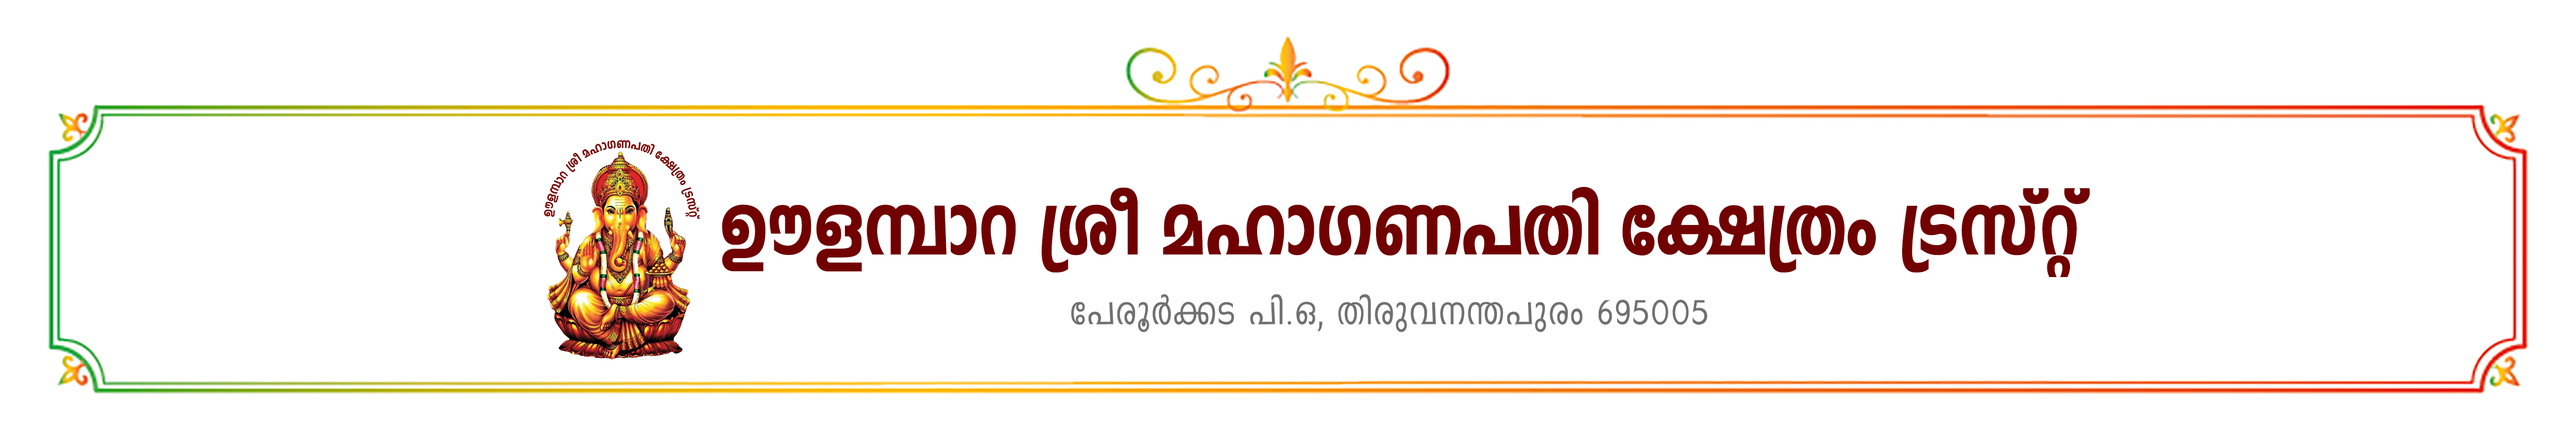
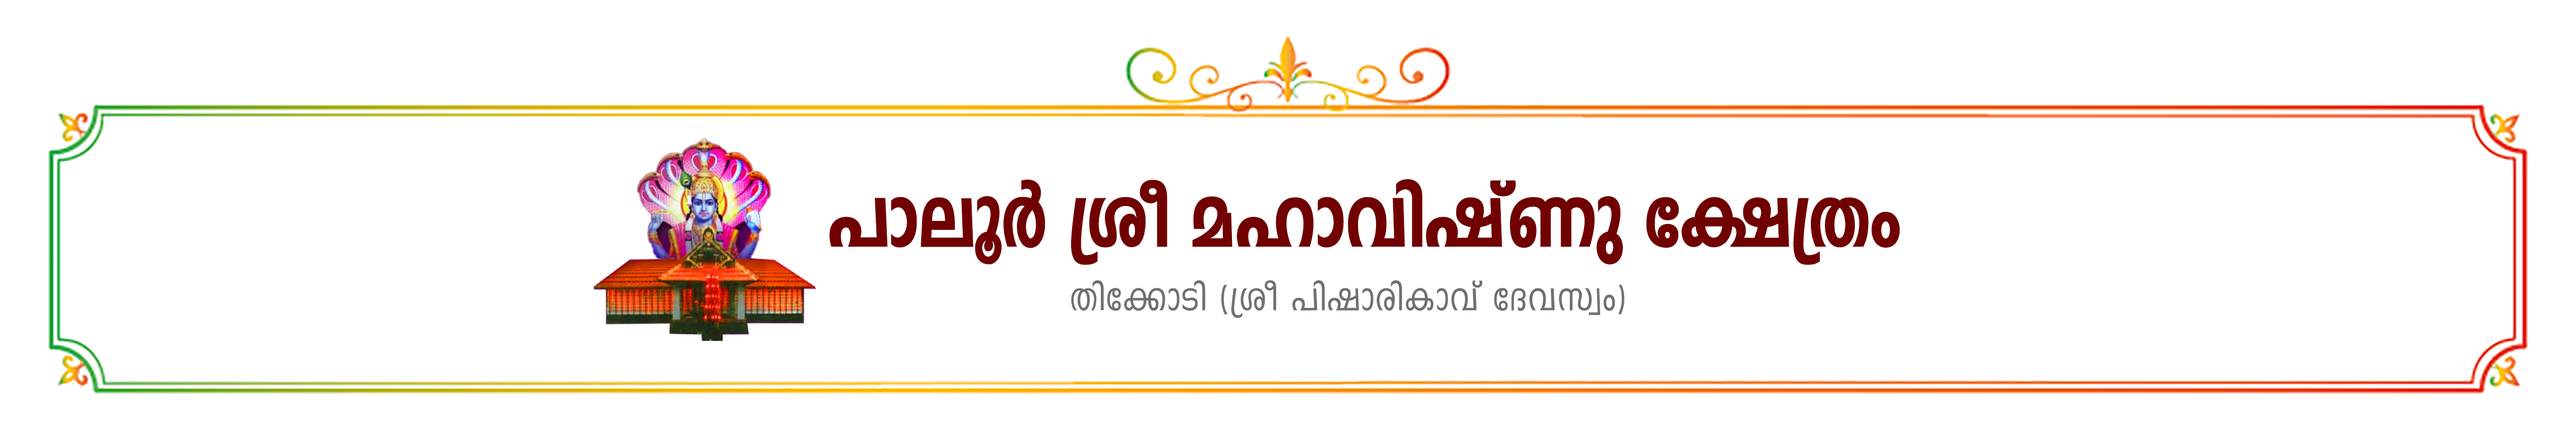
pisharikkavu temple recipt diamension

Changed region(s): [[0.1872, 0.3121, 0.8112, 0.8427], [0.4056, 0.6555, 0.6552, 0.7803]]

diff --git a/src/app/nadavaravu/nadavaravu.component.html b/src/app/nadavaravu/nadavaravu.component.html
@@ -216,7 +216,10 @@
               </select>
             </td>
             <td>
-              <button class="btn btn-primary" (click)="onSubmit()">Save</button><br>
+              <button class="btn btn-primary" (click)="onSubmit()"
+              [disabled]="role=='admin' || role=='audit' || role=='super'"
+
+              >Save</button><br>
 
               <button (click)="resetForm()" class="btn btn-danger mt-2">
                 Cancel
@@ -296,25 +299,42 @@
 <!-- oolanbarra start nadavaravu recipt and duplicte -->
 
 <div id="receipt" style="width: 6in; height: 4in; display: none; position: relative; font-size: 12px; font-family: Arial, sans-serif;">
-  <div style="position: absolute; left: 5cm; top: 3.6cm;">{{ itemName }}</div>
-  <div style="position: absolute; left: 11cm; top: 3.2cm;">{{ todayDate | date: 'dd-MM-yyyy' }}</div>
-  <div style="position: absolute; left: 11cm; top: 3.6cm;">{{ nadavaravForm.get('BillNo')?.value }}</div>
-  <div style="position: absolute; left: 2cm; top: 5.5cm;">{{ nadavaravForm.get('Name')?.value }}<p>{{nadavaravForm.get('Address')?.value }}</p></div>
-  <div style="position: absolute; left: 8cm;top: 5.5cm;font-family:Manjari;font-size:7pt;">{{ getStarNameById(nadavaravForm.get('Star')?.value) }}</div>
-  <div style="position: absolute; left: 10cm; top: 5.5cm;">{{ nadavaravForm.get('Qty')?.value }}</div>
-  <div style="position: absolute; left: 12.5cm; top: 5.5cm;">{{ nadavaravForm.get('ReceiptAmount')?.value  }}</div>
-  <div style="position: absolute;  left: 11.5cm; top: 7.5cm;">{{ nadavaravForm.get('ReceiptAmount')?.value  }}</div>
+      <div style="position: absolute; left:3cm; top: 3cm; font-size:9pt; white-space: pre-wrap;" >പാലൂർ ശ്രീ മഹാവിഷ്ണു ക്ഷേത്രം ,തിക്കോടി </div>
+
+  <div style="position: absolute; left: 2cm; top: 4%;">{{ itemName }}</div>
+  <div style="position: absolute; left: 10.5cm; top: 3.5cm;">{{ todayDate | date: 'dd-MM-yyyy' }}</div>
+  <div style="position: absolute; left: 10.5cm; top: 4cm;">{{ nadavaravForm.get('BillNo')?.value }}</div>
+  <div style="position: absolute; left: 1cm; top: 5.5cm;">{{ nadavaravForm.get('Name')?.value }}
+    <p>{{nadavaravForm.get('Address')?.value }}</p>
+   <p style="font-family:Manjari;margin-bottom: 0;font-family:Manjari;margin-top: 0px;padding-top: 0px;padding-bottom: 0px;">{{"Weight" | translate}}:{{nadavaravForm.get('weight')?.value }}</p>
+  <p style="font-family:Manjari;margin-bottom: 0;font-family:Manjari;margin-top: 0px;padding-top: 0px;padding-bottom: 0px;">{{"unit" | translate}}:{{nadavaravForm.get('unit')?.value }}</p>
+
+  </div>
+  <div style="position: absolute; left: 6.8cm;top: 5.5cm;font-family:Manjari;font-size:7pt;">{{ getStarNameById(nadavaravForm.get('Star')?.value) }}</div>
+  <div style="position: absolute; left: 9.5cm; top: 5.5cm;">{{ nadavaravForm.get('Qty')?.value }}</div>
+  <div style="position: absolute; left: 11.5cm; top: 5.5cm;">{{ nadavaravForm.get('ReceiptAmount')?.value  }}</div>
+  <div style="position: absolute;  left: 10.5cm; top: 8.6cm;">{{ nadavaravForm.get('ReceiptAmount')?.value  }}</div>
+<div style="position: absolute; left: 1.5cm; top: 8.4cm;font-size:8pt">User:{{this.name}}( {{getTransactionType(nadavaravForm.get('TrnsMode')?.value)}}),(CNTR:{{this.CounterId}})</div>
 </div>
 
 <div  id="duplicateRecipt" style="width: 6in; height: 4in; display: none; position: relative; font-size: 12px; font-family: Arial, sans-serif;">
-  <div style="position: absolute; left: 5cm; top: 3.6cm;">{{getItemById(dupliacteBillData?.NM_Id) }}</div> 
- <div style="position: absolute; left: 11cm; top: 3.2cm;">{{ dupliacteBillData?.Billdate | date : "dd-MM-YYYY" }}</div>
-  <div style="position: absolute; left: 11cm; top: 3.6cm;">{{ dupliacteBillData?.BillNo }}</div>
-  <div style="position: absolute; left: 2cm; top: 5.5cm;">{{ dupliacteBillData?.Name }}</div>
-  <div style="position: absolute; left: 8cm; top: 5.5cm;">{{getStarNameById(dupliacteBillData?.Star) }}</div>
-  <div style="position: absolute; left: 10cm; top: 5.5cm;">{{dupliacteBillData?.Qty }}</div>
-  <div style="position: absolute; left: 12.5cm; top: 5.5cm;">{{ dupliacteBillData?.Receipt_Amt  }}</div>
-  <div style="position: absolute; left: 11.5cm; top: 7.5cm;">{{ dupliacteBillData?.Receipt_Amt  }}</div>
+        <div style="position: absolute; left:3cm; top: 3cm; font-size:9pt; white-space: pre-wrap;" >പാലൂർ ശ്രീ മഹാവിഷ്ണു ക്ഷേത്രം ,തിക്കോടി </div>
+
+  <div style="position: absolute; left: 2cm; top: 4cm;">{{getItemById(dupliacteBillData?.NM_Id) }}</div> 
+ <div style="position: absolute; left: 10.5cm; top: 3.5cm;">{{ dupliacteBillData?.Billdate | date : "dd-MM-YYYY" }}</div>
+  <div style="position: absolute; left: 10.5cm; top: 4cm;">{{ dupliacteBillData?.BillNo }}</div>
+  <div style="position: absolute; left: 1cm; top: 5.5cm;">{{ dupliacteBillData?.Name }}
+    <p>{{dupliacteBillData?.Address}}</p>
+      <p style="font-family:Manjari;margin-bottom: 0;font-family:Manjari;margin-top: 0px;padding-top: 0px;padding-bottom: 0px;">{{"Weight" | translate}}:{{dupliacteBillData?.weight }}</p>
+  <p style="font-family:Manjari;margin-bottom: 0;font-family:Manjari;margin-top: 0px;padding-top: 0px;padding-bottom: 0px;">{{"unit" | translate}}:{{dupliacteBillData?.unit }}</p> 
+
+  </div>
+  <div style="position: absolute; left: 6.8cm; top: 5.5cm;">{{getStarNameById(dupliacteBillData?.Star) }}</div>
+  <div style="position: absolute; left: 9.5cm; top: 5.5cm;">{{dupliacteBillData?.Qty }}</div>
+  <div style="position: absolute; left: 11.5cm; top: 5.5cm;">{{ dupliacteBillData?.Receipt_Amt  }}</div>
+  <div style="position: absolute; left: 10.5cm; top: 8.6cm;">{{ dupliacteBillData?.Receipt_Amt  }}</div>
+<div style="position: absolute; left: 1.5cm; top: 8.4cm;font-size:8pt">User:{{this.name}}( {{getTransactionType(nadavaravForm.get('TrnsMode')?.value)}}),(CNTR:{{this.CounterId}})</div>
+
 </div>
 <!-- end of ollanbara -->
 

diff --git a/src/app/features/Billing/fixedbottom/fixedbottom.component.ts b/src/app/features/Billing/fixedbottom/fixedbottom.component.ts
@@ -341,24 +341,24 @@ console.log(data,"dot metrix checkingkkkkkk");
        <div class="receipt-page" style="page-break-after: ${
       pageIndex < pages.length - 1 ? 'always' : 'avoid'
     };">
-    
+    <div style="position: absolute; left:3cm; top: 3cm; font-size:9pt; white-space: pre-wrap;" >പാലൂർ ശ്രീ മഹാവിഷ്ണു ക്ഷേത്രം ,തിക്കോടി </div>
           <!-- Prathista -->
-          <div style="position: absolute; left: 2cm; top: 3.8cm; max-width: 8cm; font-size:9pt; white-space: pre-wrap; word-wrap: break-word;">${prathista}</div>
+          <div style="position: absolute; left: 2cm; top: 3.5cm; max-width: 8cm; font-size:9pt; white-space: pre-wrap; word-wrap: break-word;">${prathista}</div>
           <!-- Vazhipad -->
-          <div style="position: absolute; left: 2cm; top: 4.3cm; max-width: 5cm;font-size:9pt; white-space: pre-wrap;">${vazhipad}</div>
+          <div style="position: absolute; left: 2cm; top:4cm; max-width: 5cm;font-size:9pt; white-space: pre-wrap;">${vazhipad}</div>
           <!-- Bill date Date -->
-          <div style="position: absolute; left: 10.1cm; top: 3.8cm;font-size:9pt;">${Billdate}</div>
+          <div style="position: absolute; left: 10.5cm; top: 3.5cm;font-size:9pt;">${Billdate}</div>
           <!-- bill Number -->
-          <div style="position: absolute; left: 10.1cm; top: 4.3cm;font-size:9pt;"> ${BillNo}</div>
+          <div style="position: absolute; left: 10.5cm; top: 4cm;font-size:9pt;"> ${BillNo}</div>
            <!-- vazhipad date -->
-         <div style="position: absolute; left: 5.2cm; top: 9.3cm;font-size:9pt;">
+         <div style="position: absolute; left: 4.5cm; top: 9.5cm;font-size:9pt;">
   ${fromDate != toDate ? `${this.convertDateFormat(fromDate)} to ${this.convertDateFormat(toDate)}` : `${this.convertDateFormat(fromDate)}`}
 </div>
 ${group.nalBy ? `<div style="position: absolute; left: 5.5cm; top: 8cm;font-size:6pt">- ${group.nalBy},</div>` : ''}
 ${group.mday ? `<div style="position: absolute; left: 5.5cm; top: 8.3cm;font-size:6pt">- ${group.mday},</div>` : ''}
 ${group.mmonth ? `<div style="position: absolute; left: 5.5cm; top:8.5cm;font-size:6pt">- ${group.mmonth}</div>` : ''}
 ${group.thithi ? `<div style="position: absolute; left: 5.5cm; top:8cm;font-size:6pt">- ${group.thithi}</div>` : ''}
- <div style="position: absolute; left: 2cm; top: 8.4cm;font-size:8pt">User:${this.name}(${this.getTransactionType(Trnsmode)}) ${Trnsmode=='CR'?"(Not Paid)":""}(CNTR:${this.counterId})</div>
+ <div style="position: absolute; left: 1.5cm; top: 8.4cm;font-size:8pt">User:${this.name}(${this.getTransactionType(Trnsmode)}) ${Trnsmode=='CR'?"(Not Paid)":""}(CNTR:${this.counterId})</div>
           `
       // Render rows in the current page
       page.forEach((item: any, rowIndex: number) => {
@@ -366,12 +366,12 @@ ${group.thithi ? `<div style="position: absolute; left: 5.5cm; top:8cm;font-size
         const amount = item.Qty * item.Rate;
         grandTotalAmount += amount; // Add the amount to the grand total
         receiptContent += `
-          <div style="position: absolute; left: 1.8cm; font-size:9pt;font-weight:bold; top: ${rowTop}cm; max-width: 5.5cm; white-space: pre-wrap; word-wrap: break-word; line-height: 1.2em;">${item.Name}${item.Name2 ? `<div style="margin-top: 0.1mm;">${item.Name2}</div>` : ''}</div>
-          <div style="position: absolute; left: 7.8cm;font-size:8pt;font-weight:bold; top: ${rowTop}cm;">${this.getStarbyId(item.Star)}${item.Star2 ? `<div style="margin-top: 0.1mm;">${this.getStarbyId(item.Star2)}</div>` : ''}</div>
-          <div style="position: absolute; left: 10.2cm; font-size:9pt; top: ${rowTop}cm;">${item.Qty}</div>
-          <div style="position: absolute; left: 11cm;font-size:9pt; top: ${rowTop}cm;">${item.Rate}</div>
-          <div style="position: absolute; left: 12.2cm; font-size:9pt;top: ${rowTop}cm;">${amount.toFixed(2)}</div>
-         <div style="position: absolute; left: 10.5cm; top: 9.3cm;font-size:8pt;font-weight:bold;">${this.getTimeForBill(item.VTime)}</div>
+          <div style="position: absolute; left: 1cm; font-size:9pt;font-weight:bold; top: ${rowTop}cm; max-width: 5.5cm; white-space: pre-wrap; word-wrap: break-word; line-height: 1.2em;">${item.Name}${item.Name2 ? `<div style="margin-top: 0.1mm;">${item.Name2}</div>` : ''}</div>
+          <div style="position: absolute; left: 6.8cm;font-size:8pt;font-weight:bold; top: ${rowTop}cm;">${this.getStarbyId(item.Star)}${item.Star2 ? `<div style="margin-top: 0.1mm;">${this.getStarbyId(item.Star2)}</div>` : ''}</div>
+          <div style="position: absolute; left: 9.5cm; font-size:9pt; top: ${rowTop}cm;">${item.Qty}</div>
+          <div style="position: absolute; left: 10.5cm;font-size:9pt; top: ${rowTop}cm;">${item.Rate}</div>
+          <div style="position: absolute; left: 11.5cm; font-size:9pt;top: ${rowTop}cm;">${amount.toFixed(2)}</div>
+         <div style="position: absolute; left: 10cm; top: 9.4cm;font-size:7pt;font-weight:bold;">${this.getTimeForBill(item.VTime)}</div>
         `;
       });
       // receiptContent += `</div>`; // Close receipt page
@@ -383,7 +383,7 @@ ${group.thithi ? `<div style="position: absolute; left: 5.5cm; top:8cm;font-size
         //  ${this.numbertowordpipe.transform(grandTotalAmount)} <span> Rupees</span>
       // </div>
     receiptContent += `
-      <div style="position: absolute; left: 10cm; top: 8.4cm; font-weight: bold; font-size: 12pt;">
+      <div style="position: absolute; left: 10.5cm; top: 8.6cm; font-weight: bold; font-size: 12pt;">
          ${grandTotalAmount.toFixed(2)}
       </div>
       

diff --git a/src/app/features/Billing/search-by-bill-number/search-by-bill-number.component.ts b/src/app/features/Billing/search-by-bill-number/search-by-bill-number.component.ts
@@ -1069,16 +1069,18 @@ return formattedDate
          <div class="receipt-page" style="page-break-after: ${
         pageIndex < pages.length - 1 ? 'always' : 'avoid'
       };">
+          <div style="position: absolute; left:3cm; top: 3cm; font-size:9pt; white-space: pre-wrap;" >പാലൂർ ശ്രീ മഹാവിഷ്ണു ക്ഷേത്രം ,തിക്കോടി </div>
+
             <!-- Prathista -->
-            <div style="position: absolute; left: 2cm; top: 3.8cm; max-width: 8cm;  white-space: pre-wrap; word-wrap: break-word;font-size:9pt;">${prathista}</div>
+            <div style="position: absolute; left: 2cm; top: 3.5cm; max-width: 8cm;  white-space: pre-wrap; word-wrap: break-word;font-size:9pt;">${prathista}</div>
             <!-- Vazhipad -->
-            <div style="position: absolute; left: 2cm; top: 4.3cm; max-width: 5cm; white-space: pre-wrap;font-size:9pt; white-space: pre-wrap;">${vazhipad}</div>
+            <div style="position: absolute; left: 2cm; top: 4cm; max-width: 5cm; white-space: pre-wrap;font-size:9pt; white-space: pre-wrap;">${vazhipad}</div>
              <!-- Bill date Date -->
-            <div style="position: absolute; left: 10.1cm; top: 3.8cm;">${this.billDate}</div>
+            <div style="position: absolute; left: 10.5cm; top: 3.5cm;">${this.billDate}</div>
            <!-- bill Number -->
-            <div style="position: absolute; left: 10.1cm; top: 4.3cm;"> ${this.lastBillNo}</div>
+            <div style="position: absolute; left: 10.5cm; top: 4cm;"> ${this.lastBillNo}</div>
              <!-- Vazhipad Date -->
-           <div style="position: absolute; left: 5.2cm; top: 9.3cm;font-size:9pt;">
+           <div style="position: absolute; left: 4.5cm; top: 9.5cm;font-size:9pt;">
     ${fromDate != toDate ? `${this.convertDateFormat(fromDate)} to ${this.convertDateFormat(toDate)}` : `${this.convertDateFormat(fromDate)}`}
   </div>
   ${group.nalBy ? `<div style="position: absolute; left: 5.5cm; top: 8cm;font-size:6pt">- ${group.nalBy},</div>` : ''}
@@ -1097,12 +1099,12 @@ return formattedDate
           const amount = item.Qty * item.Rate;
           grandTotalAmount += amount; // Add the amount to the grand total
           receiptContent += `
-            <div style="position: absolute; left: 1.8cm; font-size:9pt;font-weight:bold; top: ${rowTop}cm; max-width: 5.5cm; white-space: pre-wrap; word-wrap: break-word; line-height: 1.2em;">${item.Name}${item.Name2 ? `<div style="margin-top: 0.1mm;">${item.Name2}</div>` : ''}</div>
-            <div style="position: absolute; left: 7.8cm;font-size:8pt;font-weight:bold; top: ${rowTop}cm;">${this.getStarbyId(item.Star)}${item.Star2 ? `<div style="margin-top: 0.1mm;">${this.getStarbyId(item.Star2)}</div>` : ''}</div>
-            <div style="position: absolute; left: 10.2cm;font-size:9pt; top: ${rowTop}cm;">${item.Qty}</div>
-            <div style="position: absolute;  left: 11cm;font-size:9pt; top: ${rowTop}cm;">${item.Rate}</div>
-            <div style="position: absolute;  left: 12.2cm;font-size:9pt; top: ${rowTop}cm;">${amount.toFixed(2)}</div>
-             <div style="position: absolute; left: 10.5cm; top: 9.3cm;font-size:8pt;font-weight:bold;">${this.getTimeForBill(item.VTime)}</div>
+            <div style="position: absolute; left: 1cm; font-size:9pt;font-weight:bold; top: ${rowTop}cm; max-width: 5.5cm; white-space: pre-wrap; word-wrap: break-word; line-height: 1.2em;">${item.Name}${item.Name2 ? `<div style="margin-top: 0.1mm;">${item.Name2}</div>` : ''}</div>
+            <div style="position: absolute; left: 6.8cm;font-size:8pt;font-weight:bold; top: ${rowTop}cm;">${this.getStarbyId(item.Star)}${item.Star2 ? `<div style="margin-top: 0.1mm;">${this.getStarbyId(item.Star2)}</div>` : ''}</div>
+            <div style="position: absolute; left: 9.5cm;font-size:9pt; top: ${rowTop}cm;">${item.Qty}</div>
+            <div style="position: absolute;  left: 10.5cm;font-size:9pt; top: ${rowTop}cm;">${item.Rate}</div>
+            <div style="position: absolute;  left: 11.5cm;font-size:9pt; top: ${rowTop}cm;">${amount.toFixed(2)}</div>
+             <div style="position: absolute; left: 10cm; top: 9.4cm;font-size:7pt;font-weight:bold;">${this.getTimeForBill(item.VTime)}</div>
 
             `;
         });
@@ -1116,7 +1118,7 @@ return formattedDate
       // </div>
      
       receiptContent += `
-        <div style="position: absolute; left: 10cm; top: 8.4cm; font-weight: bold; font-size: 12pt;">
+        <div style="position: absolute; left: 10.5cm; top: 8.6cm; font-weight: bold; font-size: 12pt;">
            ${grandTotalAmount.toFixed(2)}
         </div>
       //   

diff --git a/src/app/features/Billing/devotee-fee-collection/devotee-fee-collection.component.html b/src/app/features/Billing/devotee-fee-collection/devotee-fee-collection.component.html
@@ -182,7 +182,10 @@
             </tr>
             <tr>
               <td colspan="2">
-                <button class="btn btn-primary"  (click)="onSubmit()">Save</button>
+                <button class="btn btn-primary"  (click)="onSubmit()"
+                
+
+                >Save</button>
                 <button  class="btn btn-danger ml-2" (click)="Reset()">
                   Cancel
                 </button>
@@ -233,15 +236,17 @@
   
   
 <div id="receipt" style="width: 6in; height: 4in; display: none; position: relative; font-size: 12px; font-family: Arial, sans-serif;">
-  <div style="position: absolute; left: 2cm; top: 4.3cm;">{{getItemNameById( feeCollctionForm.get('ItemType')?.value) }}</div>
-  <div style="position: absolute; left: 10.1cm; top: 3.8cm;">{{ formatDateToDDMMYYYY(todayDate) }}</div>
-  <div style="position: absolute; left: 10.1cm; top: 4.3cm;">{{ feeCollctionForm.get('BillNo')?.value }}</div>
-  <div style="position: absolute; left: 1.8cm; top: 6.1cm;">{{ feeCollctionForm.get('Name')?.value }}<p>{{feeCollctionForm.get('Address')?.value }}</p>
+      <div style="position: absolute; left:3cm; top: 3cm; font-size:9pt; white-space: pre-wrap;" >പാലൂർ ശ്രീ മഹാവിഷ്ണു ക്ഷേത്രം ,തിക്കോടി </div>
+
+  <div style="position: absolute; left: 2cm; top: 4cm;">{{getItemNameById( feeCollctionForm.get('ItemType')?.value) }}</div>
+  <div style="position: absolute; left: 10.5cm; top: 3.5cm;">{{ formatDateToDDMMYYYY(todayDate) }}</div>
+  <div style="position: absolute; left: 10.5cm; top: 4cm;">{{ feeCollctionForm.get('BillNo')?.value }}</div>
+  <div style="position: absolute; left: 1cm; top: 5.5cm;">{{ feeCollctionForm.get('Name')?.value }}<p>{{feeCollctionForm.get('Address')?.value }}</p>
   
 <p *ngIf="monthString; else noMonths">{{"feecollection.Month"| translate }}:{{ monthString }}</p>
 
 <ng-template #noMonths>
-  <p>No months found</p>
+  <p>No months Selected</p>
 </ng-template>
     <p>
     {{"feecollection.Year"| translate }}:{{ feeCollctionForm.get('Year')?.value  }}
@@ -249,9 +254,11 @@
  
   </div>
   <!-- <div style="position: absolute; left: 10.5cm; top: 5cm;">{{ feeCollctionForm.get('vazhipadinfo')?.value }}</div> -->
-  <div style="position: absolute; left: 12.2cm; top: 6.1cm;">{{ feeCollctionForm.get('Amount')?.value  }}</div>
-  <div style="position: absolute;  left: 10cm; top: 8.4cm;">{{ feeCollctionForm.get('totalAmount')?.value  }}</div>
-  <div style="position: absolute; left: 2cm; top: 8.4cm;font-size:8pt">User:{{ name}},{{getTransactionType(feeCollctionForm.get('TransMode')?.value)}}(CNTR:{{counterId}}</div>
+  <div style="position: absolute; left: 11.5cm; top: 5.5cm;">{{ feeCollctionForm.get('Amount')?.value  }}</div>
+  <div style="position: absolute;  left: 10.5cm; top: 8.6cm;">{{ feeCollctionForm.get('totalAmount')?.value  }}</div>
+  <!-- <div style="position: absolute; left: 2cm; top: 8.4cm;font-size:8pt">User:{{ name}},{{getTransactionType(feeCollctionForm.get('TransMode')?.value)}}(CNTR:{{counterId}})</div> -->
+<div style="position: absolute; left: 1.5cm; top: 8.4cm;font-size:8pt">User:{{this.name}}( {{getTransactionType(feeCollctionForm.get('TransMode')?.value)}}),(CNTR:{{this.CounterId}})</div>
+
 </div>
 
 <div id="thermalreceipt" style="width: 6in; height: 4in; display: none; position: relative; font-size: 12px; font-family: Arial, sans-serif;">

diff --git a/src/app/creditcollection/creditcollection.component.html b/src/app/creditcollection/creditcollection.component.html
@@ -146,14 +146,16 @@
 
 <div id="receipt" style="width: 6in; height: 4in; display: none; position: relative; font-size: 12px; font-family: Arial, sans-serif;">
     <!-- <div style="position: absolute; left: 2.1cm; top: 3.8cm;">{{ itemName }}</div> -->
-    <div style="position: absolute; left: 10.1cm; top: 3.8cm;">{{ today | date: 'dd-MM-yyyy' }}</div>
-    <div style="position: absolute; left: 10.1cm; top: 4.3cm;">{{ CreditForm.get('BillNo')?.value }}</div>
-    <div style="position: absolute; left: 1.8cm; top: 6.1cm;">{{ CreditForm.get('Name')?.value }}<p>{{CreditForm.get('Address')?.value }}</p></div>
+         <div style="position: absolute; left:3cm; top: 3cm; font-size:9pt; white-space: pre-wrap;" >പാലൂർ ശ്രീ മഹാവിഷ്ണു ക്ഷേത്രം ,തിക്കോടി </div>
+
+    <div style="position: absolute; left: 10.5cm; top: 3.5cm;">{{ today | date: 'dd-MM-yyyy' }}</div>
+    <div style="position: absolute; left: 10.5cm; top: 4cm;">{{ CreditForm.get('BillNo')?.value }}</div>
+    <div style="position: absolute; left: 1cm; top: 5.5cm;">{{ CreditForm.get('Name')?.value }}<p>{{CreditForm.get('Address')?.value }}</p></div>
     <!-- <div style="position: absolute; left: 6.9cm; top: 5cm;">{{ CreditForm }}</div> -->
     <!-- <div style="position: absolute; left: 10.5cm; top: 5cm;">{{ CreditForm.get('Qty')?.value }}</div> -->
-    <div style="position: absolute; left: 12.2cm; top: 6.1cm;">{{ CreditForm.get('Amount')?.value  }}</div>
-    <div style="position: absolute;  left:10cm; top: 8.4cm;">{{ CreditForm.get('Amount')?.value  }}</div>
-    <div style="position: absolute; left: 2cm; top: 8.4cm;font-size:8pt">User:{{ name}},({{getTransactionType( CreditForm.get('TrnsMode')?.value)}})(CNTR:{{CounterId}})</div>
+    <div style="position: absolute; left: 11.5cm; top: 5.5cm;">{{ CreditForm.get('Amount')?.value  }}</div>
+    <div style="position: absolute;  left:10.5cm; top: 8.6cm;">{{ CreditForm.get('Amount')?.value  }}</div>
+    <div style="position: absolute; left: 1.5cm; top: 8.4cm;font-size:8pt">User:{{ name}},({{getTransactionType( CreditForm.get('TrnsMode')?.value)}})(CNTR:{{CounterId}})</div>
 
   </div>
 

diff --git a/src/app/constants/constant.ts b/src/app/constants/constant.ts
@@ -1,13 +1,13 @@
 import { NgPluralCase } from '@angular/common';
 export const Constant = {
-  BASE_URL: 'http:///api.suvidham.in/api/KshetramAPI/',
+  // BASE_URL: 'http:///api.suvidham.in/api/KshetramAPI/',
   // BASE_URL:'http://localhost/api/KshetramAPI/',
   // BASE_URL:'https://api.lacsindore.in/api/KshetramAPI/',
   // BASE_URL: 'https://panchiyammaapi.suvidham.in/api/KshetramAPI/',
   //  BASE_URL: 'https://api.rgstrusttvm.in/api/KshetramAPI/', 
   // BASE_URL:'https://api.oolamparaganapthy.in/api/KshetramAPI/',
   // BASE_URL:'https://api.egmoreayyappantempleapms.in/api/KshetramAPI/',
-  // BASE_URL:'https://api.pisharikavukollam.in/api/KshetramAPI/',
+  BASE_URL:'https://api.pisharikavukollam.in/api/KshetramAPI/',
   // BASE_URL:'https://api.vadakkevilakam.in/api/KshetramAPI/',
   //  BASE_URL:'https://api.smvtt.org/api/KshetramAPI/',
   

diff --git a/src/app/features/Report/report-dashboard/report-dashboard.component.html b/src/app/features/Report/report-dashboard/report-dashboard.component.html
@@ -39,7 +39,7 @@
             <label><input type="radio" formControlName="vazhipadOption" value="online"> {{ "Report.Online Report" | translate }}</label>
             <label><input type="radio" formControlName="vazhipadOption" value="cheque"> {{ "Report.Cheque Statement" | translate }}</label>
             <label><input type="radio" formControlName="vazhipadOption" value="credit"> {{ "Report.Due/Credit" | translate }}</label>
-            <label><input type="radio" formControlName="vazhipadOption" value="report-endowment"> {{ "Report.Endowment" | translate }}</label>
+            <!-- <label><input type="radio" formControlName="vazhipadOption" value="report-endowment"> {{ "Report.Endowment" | translate }}</label> -->
 
             <!-- <label>
             </label> -->

diff --git a/src/app/core/layout/menuitems/menuitems.component.html b/src/app/core/layout/menuitems/menuitems.component.html
@@ -54,7 +54,7 @@
                        
                         <a  *ngIf="role === 'admin' || role === 'super' " routerLink="/userSignup" [mat-dialog-close]="true"><li class="list-group-item">Signup</li></a>
                         <a  *ngIf="role === 'super' "  routerLink="/settings" [mat-dialog-close]="true"><li class="list-group-item">Settings</li></a>
-                        <a   routerLink="/endowment" [mat-dialog-close]="true"><li class="list-group-item">Endowment</li></a>
+                        <!-- <a   routerLink="/endowment" [mat-dialog-close]="true"><li class="list-group-item">Endowment</li></a> -->
 
                       </ul>
                    

diff --git a/src/app/features/Billing/fixedbottom/fixedbottom.component.css b/src/app/features/Billing/fixedbottom/fixedbottom.component.css
@@ -193,3 +193,9 @@ input[type="email"]:focus {
     justify-content: space-between;
 }
 /* ****************************************** */
+button:disabled {
+  background-color: #d3d3d3 !important; /* Light gray */
+  color: #888888 !important; /* Optional: change text color */
+  cursor: not-allowed;
+  border-color: #cccccc;
+}

diff --git a/src/app/features/Billing/fixedbottom/fixedbottom.component.html b/src/app/features/Billing/fixedbottom/fixedbottom.component.html
@@ -255,7 +255,7 @@
   </div>
   <!-- &#8377; -->
   <button 
-
+[disabled]="role=='admin' || role=='audit' || role=='super'"
   (focus)="onPayFocus()" (blur)="onPayBlur()"
   id="paybutton"
     #payButton
